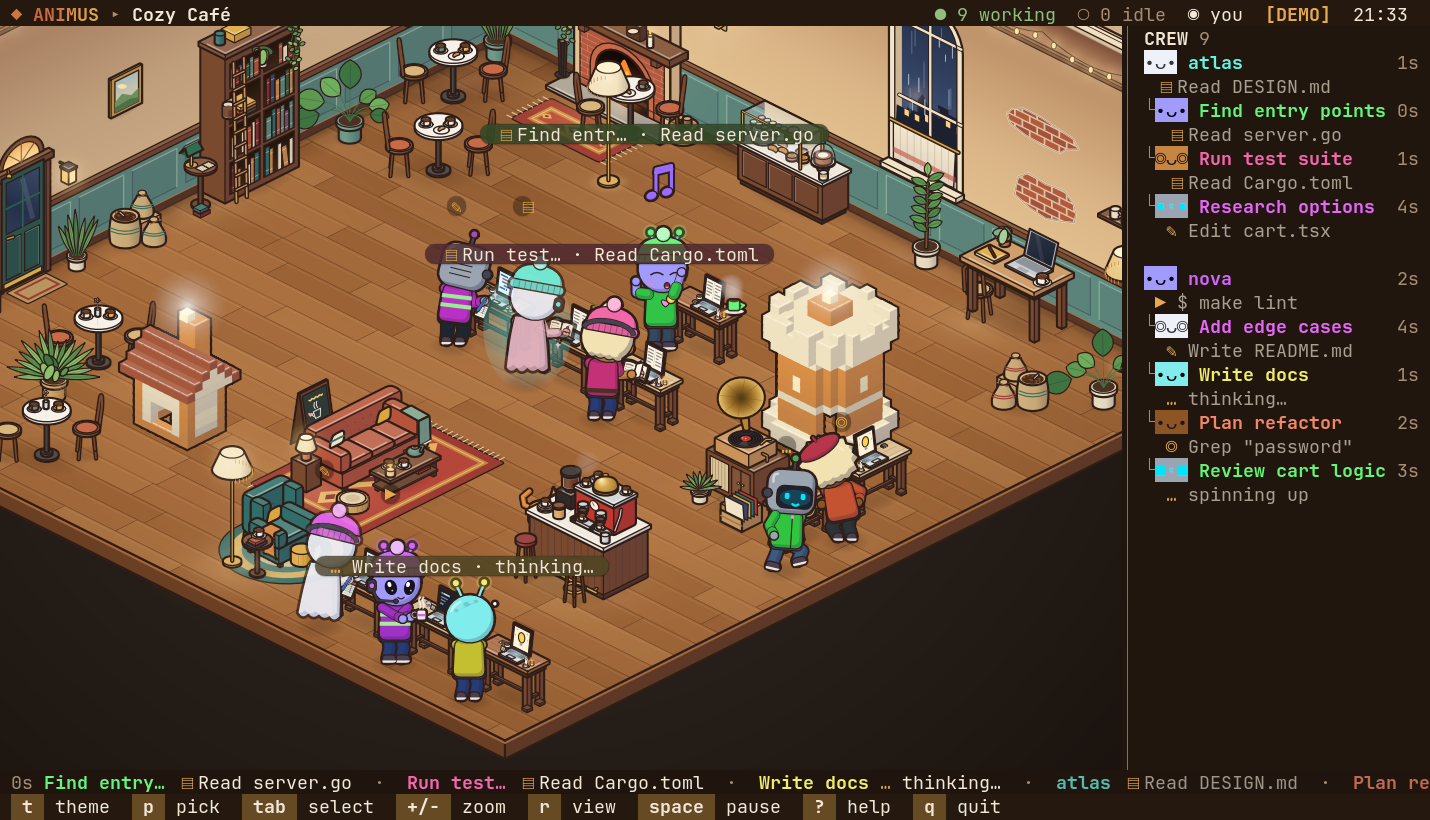
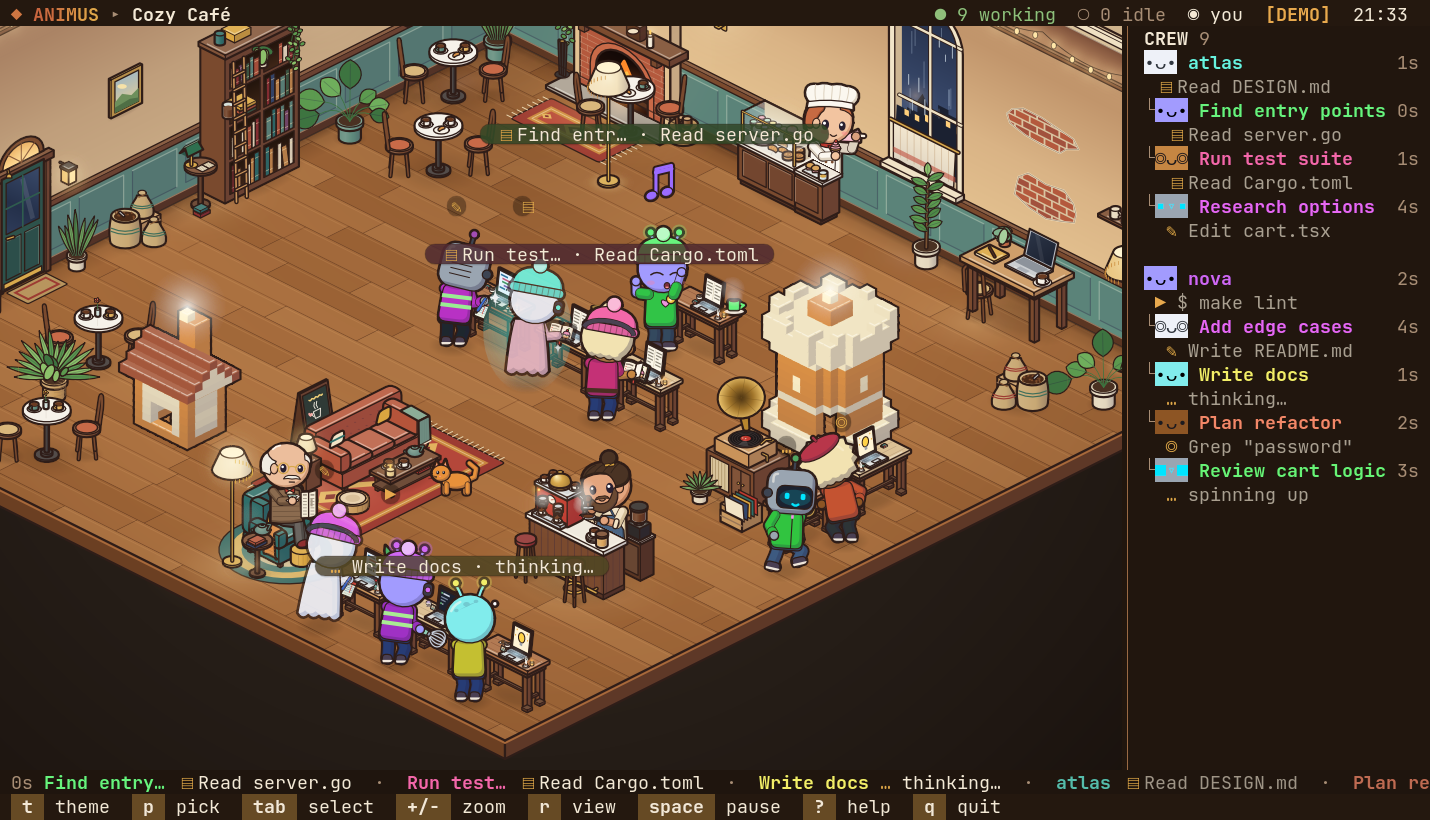
docs: the locals in the README and the screenshots
Every world's three locals, what they do with the crew, the n key; the
screenshots taken again with the locals at work, and a sheet of them.

diff --git a/README.md b/README.md
@@ -334,6 +334,36 @@ It is all for show: nothing is sent or changed, a working agent never
 leaves its workstation for it, and anyone given work drops it at once. `o`
 turns office life off and on, for pure status, and is remembered.
 
+## The locals
+
+![The locals at work: the club's DJ at the decks, the café's barista and old regular, the startup's Friday cake, the vault's teller and safecracker](docs/screenshots/locals.png)
+
+Every world has three locals: people who are not agents, each working one
+of its stations where the job puts them. The club has its DJ behind the
+decks, a bartender shaking cocktails and a coat-check attendant at her
+hatch; the café a barista, a pastry chef and an old regular with his paper
+in the wingback; the mines a blacksmith, an assayer and an old prospector;
+hell a contract clerk, a fire-breathing forge demon and a witch at her
+cauldron; and so on in all sixteen worlds, each drawn in its world's own
+style. Some stand behind their counter, some sit, some stand at their work.
+
+They live alongside the crew:
+
+- **They react.** The one by the door greets each newcomer; all three
+  celebrate a finished task their own way, flinch at an error and applaud
+  a level-up.
+- **They serve.** A coffee run goes to the world's barista, bartender or
+  cook, who hands over the cup; an idle agent may also order something (a
+  croissant, a coat ticket, a slice of pizza) and gets it handed over, one
+  at a time, the next one waiting its turn.
+- **They put on a show.** Every few minutes one of them performs (the DJ's
+  drop, latte art, a forged blade, Friday cake, a big catch) and idle
+  agents gather round in a ring to watch or dance, then applaud.
+- **They chat.** An idle agent passing by sometimes stops for a word.
+
+A working agent is never pulled away for any of it. `n` turns the locals
+off and on, and is remembered.
+
 ## Keys
 
 | key | action |
@@ -351,6 +381,7 @@ turns office life off and on, for pure status, and is remembered.
 | `r` | scene / dashboard (remembered) |
 | `l` | lighting on / off (remembered) |
 | `o` | office life on / off (remembered) |
+| `n` | locals on / off (remembered) |
 | `d` | demo crew on / off (mixes with live agents) |
 | `space` | pause |
 | `?` | help |
@@ -375,7 +406,7 @@ Claude Code already keeps on disk:
   for growth.
 
 It writes only its own files: `~/.config/animus/config.json` (world, view,
-lighting, office life) and `~/.config/animus/crews.json` (growth). The one
+lighting, office life, locals) and `~/.config/animus/crews.json` (growth). The one
 thing it ever sends is a chat message you type, to the session you picked,
 through that session's local socket (see
 [Talking to an agent](#talking-to-an-agent)).
@@ -478,6 +509,11 @@ Layout:
    few) and `loops` (one or two things that move while its agent works):
    `node scripts/desk-spots.ts <id> <r> <h>` maps where a thing of a given
    size may stand.
+   Its `npcs` are its three locals (see `src/worlds/club/npcs.ts`): each
+   names its station, where it stands (behind its counter, seated, or
+   standing beside it), its parts drawn on the shared puppet
+   (`src/art/npc/`) and its work, show and serve; look at them with
+   `node scripts/npc-sheet.ts <id> /tmp/<id>-npcs.png`.
 2. A new costume holds a tool in each of the five grip files in
    `src/art/figure/tools/` (`write.ts`, `read.ts`, `run.ts`, `search.ts`,
    `web.ts`; today's for everyone until it gets its own) and a row in the
